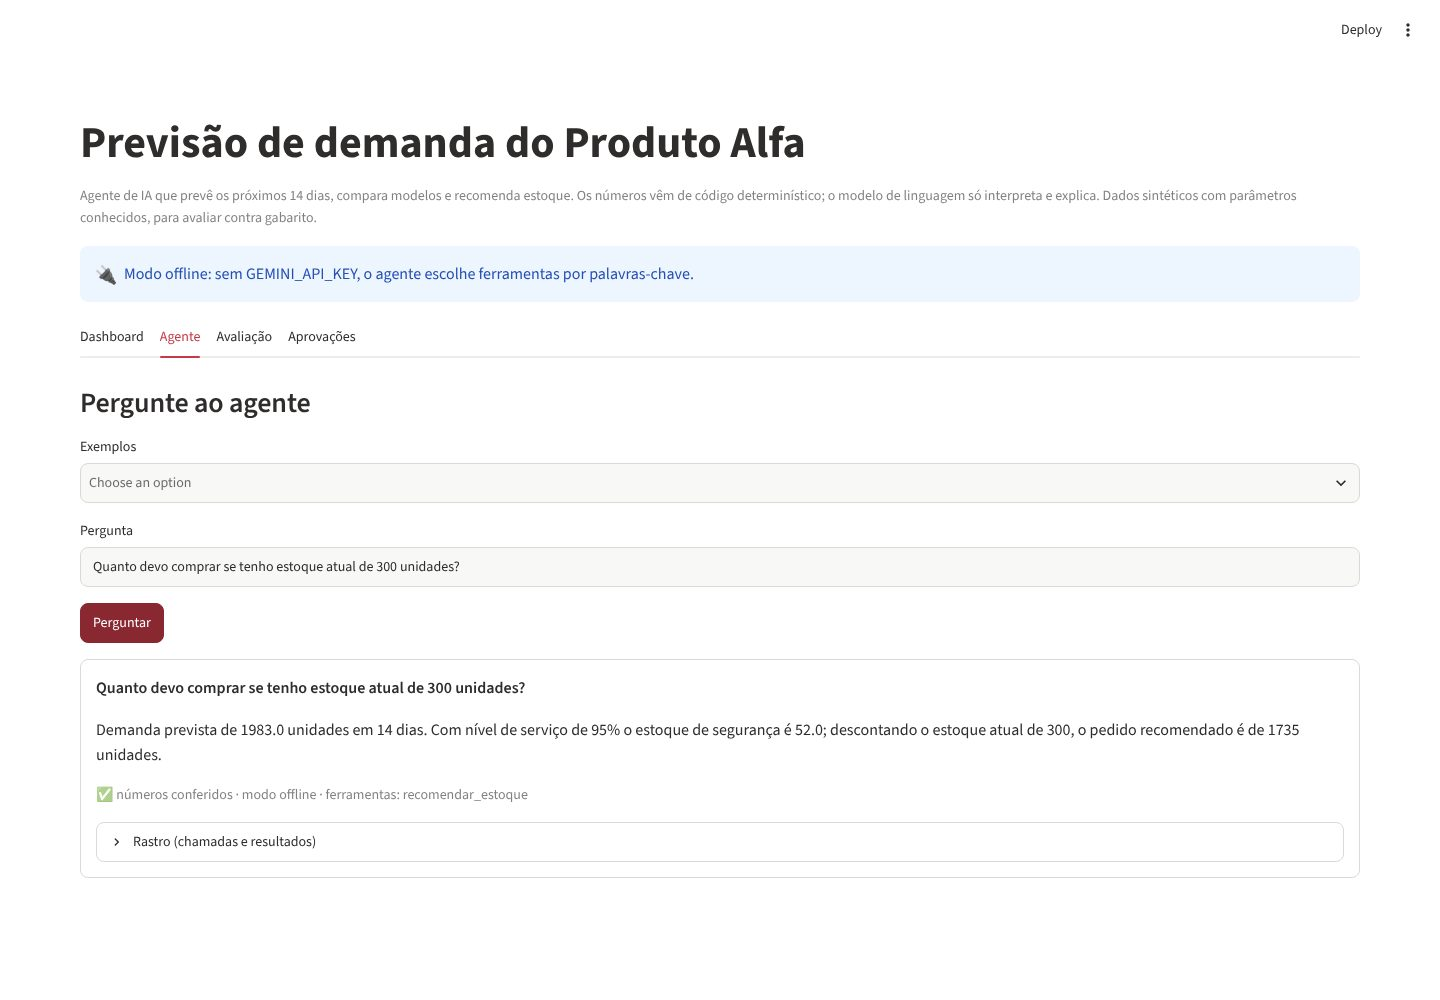
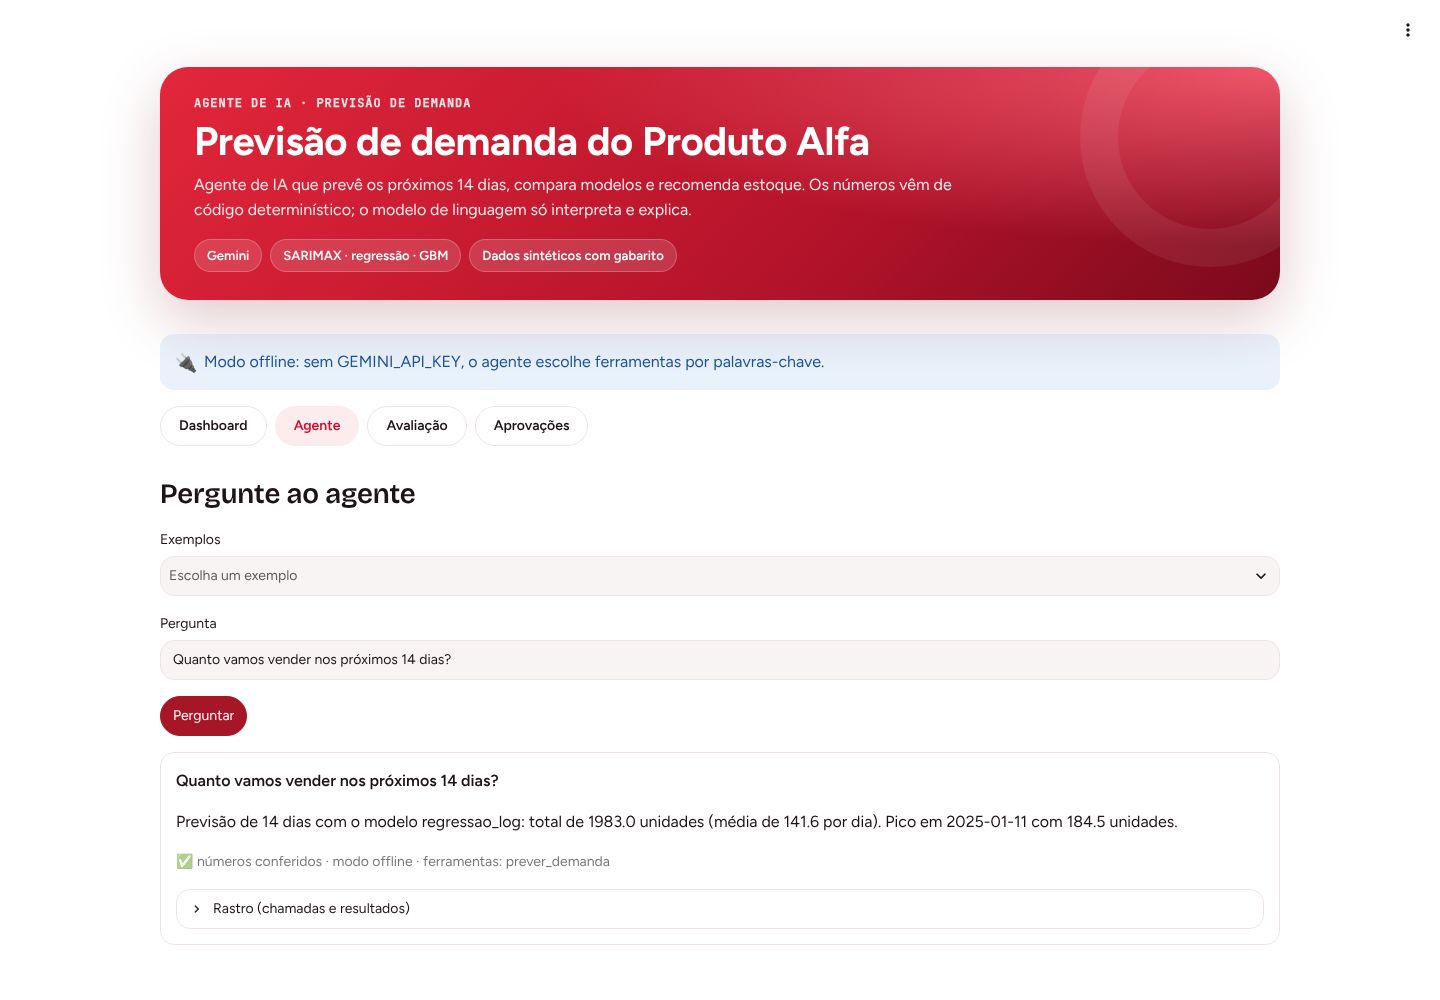
Dashboard com a identidade visual do portfólio
- .streamlit/config.toml: tema claro e escuro (vermelho #E3263B, Figtree e Bricolage Grotesque) e paletas de gráfico validadas para daltonismo
- app/tema.py: cabeçalho, cards de KPI, abas em pílula, selos de status com ícone e cores dos gráficos pela paleta
- capturas do README refeitas; streamlit>=1.51 (seções [theme.light] e [theme.dark])

Claude-Session: https://claude.ai/code/session_01WR8CaPDQRav6xXD6FyLt9e

diff --git a/app/tema.py b/app/tema.py
@@ -1,0 +1,142 @@
+"""Identidade visual compartilhada pelos dashboards: a mesma do portfólio (henriquecm02.github.io).
+
+Cores, fontes e raios ficam em `.streamlit/config.toml` (modo claro e escuro). Este módulo só acrescenta o que o tema
+do Streamlit não cobre: o cabeçalho, os cards de KPI, as abas em pílula e cores para traços com cor explícita.
+Copiado de forma idêntica em cada repositório, como o agentcore.py.
+"""
+from __future__ import annotations
+
+import html
+
+import streamlit as st
+
+# Mesma ordem das paletas do config.toml (validadas para daltonismo). Cor segue a entidade, nunca a posição.
+PALETA = {"claro": ["#E3263B", "#2a78d6", "#eda100", "#1baf7a", "#6250d6"],
+          "escuro": ["#E8455A", "#3987e5", "#c98500", "#199e70", "#9085e9"]}
+NEUTRO = {"claro": "#9A8A8D", "escuro": "#8C7E80"}  # série de referência: histórico, linha de base
+# Escala sequencial (magnitude): um só tom, do claro ao escuro (no modo escuro, do escuro ao claro).
+SEQUENCIAL = {"claro": ["#FDECEE", "#F6B3BC", "#EC6A7B", "#E3263B", "#B3132A", "#7A0A1B"],
+              "escuro": ["#3A1218", "#7A0A1B", "#B3132A", "#E3263B", "#EC6A7B", "#F6B3BC"]}
+STATUS = {"ok": ("#157347", "✅"), "atencao": ("#8A5200", "⚠"), "critico": ("#C8102E", "⛔")}
+
+
+def modo() -> str:
+    try:
+        return "escuro" if st.context.theme.type == "dark" else "claro"
+    except Exception:  # noqa: BLE001 - fora de uma sessão (testes, scripts) não há tema
+        return "claro"
+
+
+def cor(i: int) -> str:
+    """Cor categórica do slot i (0 = vermelho da marca)."""
+    return PALETA[modo()][i]
+
+
+def cores(n: int) -> list[str]:
+    """As n primeiras cores categóricas, na ordem fixa. Mais de 5 séries: agrupar em "Outros" ou separar."""
+    if n > len(PALETA["claro"]):
+        raise ValueError("Mais de 5 séries: agrupe em 'Outros' ou use pequenos múltiplos.")
+    return PALETA[modo()][:n]
+
+
+def sequencial() -> list[str]:
+    return SEQUENCIAL[modo()]
+
+
+def neutro() -> str:
+    return NEUTRO[modo()]
+
+
+def texto_secundario() -> str:
+    """Cor de rótulos de valor dentro de gráficos: texto, nunca a cor da série."""
+    return "#B9ACAE" if modo() == "escuro" else "#6B5C5F"
+
+
+def rgba(hex_: str, alpha: float) -> str:
+    h = hex_.lstrip("#")
+    return f"rgba({int(h[0:2], 16)},{int(h[2:4], 16)},{int(h[4:6], 16)},{alpha})"
+
+
+def selo(nivel: str, texto: str) -> str:
+    """Selo de status em HTML: sempre ícone + texto, nunca só a cor."""
+    c, icone = STATUS[nivel]
+    return (f'<span class="hc-selo" style="--c:{c}">{icone} {html.escape(texto)}</span>')
+
+
+_CSS = """
+<style>
+.block-container, [data-testid="stMainBlockContainer"] { padding-top: 4.2rem; max-width: 1280px; }
+[data-testid="stHeader"] { background: transparent; }
+h1, h2, h3 { letter-spacing: -0.01em; }
+.hc-hero { position: relative; overflow: hidden; border-radius: 28px; padding: 30px 34px 28px;
+  margin: 0 0 18px;
+  color: #fff; background: radial-gradient(120% 140% at 100% 0%, #F0566A 0%, rgba(240,86,106,0) 55%),
+  linear-gradient(135deg, #E3263B 0%, #B3132A 62%, #7A0A1B 100%);
+  box-shadow: 0 20px 60px rgba(122,10,27,.22); }
+.hc-hero::after { content: ""; position: absolute; right: -60px; top: -60px; width: 260px; height: 260px;
+  border-radius: 50%;
+  border: 38px solid rgba(255,255,255,.07); }
+.hc-hero .k { font: 700 12px/1 var(--hc-mono, "JetBrains Mono", monospace); letter-spacing: .08em;
+  text-transform: uppercase;
+  opacity: .85; margin-bottom: 10px; }
+.hc-hero h1 { color: #fff !important; font-size: clamp(1.7rem, 3.2vw, 2.5rem); line-height: 1.1;
+  margin: 0 0 10px; padding: 0; }
+.hc-hero p { color: rgba(255,255,255,.9); max-width: 780px; margin: 0; font-size: 1rem; line-height: 1.55; }
+.hc-hero .chips { display: flex; flex-wrap: wrap; gap: 8px; margin-top: 16px; }
+.hc-hero .chips span { background: rgba(255,255,255,.14); border: 1px solid rgba(255,255,255,.22);
+  border-radius: 999px;
+  padding: 5px 12px; font-size: .82rem; font-weight: 600; }
+[data-testid="stMetric"] { background: var(--hc-surface); border: 1px solid var(--hc-line);
+  border-radius: 20px;
+  padding: 16px 18px; min-height: 118px;
+  box-shadow: 0 1px 2px rgba(60,10,20,.05), 0 6px 18px rgba(60,10,20,.06); }
+[data-testid="stMetricLabel"] p { font-weight: 600; color: var(--hc-muted); }
+[data-testid="stMetricValue"] { font-weight: 700; letter-spacing: -0.02em; }
+[data-testid="stMetricDelta"] { max-width: 100%; border-radius: 10px !important; height: auto !important; }
+[data-testid="stMetricDelta"] p { white-space: normal !important; overflow: visible !important; }
+[role="tablist"] { gap: 8px; flex-wrap: wrap; border: 0 !important; box-shadow: none !important;
+  padding-bottom: 4px; }
+[role="tablist"]::after, [role="tablist"]::before { display: none !important; }
+[data-baseweb="tab-highlight"], [data-baseweb="tab-border"], .react-aria-SelectionIndicator { display: none
+  !important; }
+[role="tab"] { border-radius: 999px !important; padding: 8px 18px !important;
+  border: 1px solid var(--hc-line) !important;
+  background: var(--hc-surface) !important; height: auto !important;
+  transition: background .15s, border-color .15s; }
+[role="tab"]:hover { border-color: var(--hc-red) !important; }
+[role="tab"] p { font-weight: 600; margin: 0; }
+[role="tab"][aria-selected="true"] { background: var(--hc-soft) !important;
+  border-color: transparent !important; }
+[role="tab"][aria-selected="true"] p { color: var(--hc-red); }
+[data-testid="stVerticalBlockBorderWrapper"]:has(> div > [data-testid="stVerticalBlock"]) { border-radius:
+  20px; }
+[data-testid="stAlert"] { border-radius: 16px; }
+.hc-selo { display: inline-flex; align-items: center; gap: 6px; padding: 3px 10px; border-radius: 999px;
+  font-weight: 600;
+  font-size: .85rem; color: var(--c); background: color-mix(in srgb, var(--c) 12%, transparent); }
+.hc-nota { color: var(--hc-muted); font-size: .9rem; }
+</style>
+"""
+_TOKENS = {
+    "claro": "--hc-surface:#FFFFFF;--hc-line:#EEE4E5;--hc-muted:#6B5C5F;--hc-soft:#FDECEE;--hc-red:#C8102E;",
+    "escuro": "--hc-surface:#1F191A;--hc-line:#3A2F31;--hc-muted:#B9ACAE;--hc-soft:#3A1218;--hc-red:#F08E9B;",
+}
+
+
+def aplicar_tema(titulo: str, subtitulo: str, kicker: str = "", chips: list[str] | None = None) -> None:
+    """Injeta o CSS do portfólio e desenha o cabeçalho. Chamar logo depois de st.set_page_config."""
+    st.html(f"<style>:root{{{_TOKENS[modo()]}}}</style>" + _CSS)
+    chips_html = "".join(f"<span>{html.escape(c)}</span>" for c in chips or [])
+    st.html(f'<div class="hc-hero">{f"<div class=k>{html.escape(kicker)}</div>" if kicker else ""}'
+            f"<h1>{html.escape(titulo)}</h1><p>{html.escape(subtitulo)}</p>"
+            f'{f"<div class=chips>{chips_html}</div>" if chips_html else ""}</div>')
+
+
+def estilo_plotly(fig, altura: int | None = None, **layout):
+    """Acabamento comum dos gráficos Plotly: legenda no topo, hover unificado, margens enxutas."""
+    fig.update_layout(margin={"l": 8, "r": 8, "t": 36, "b": 8},
+                      legend={"orientation": "h", "yanchor": "bottom", "y": 1.02, "x": 0, "title_text": ""},
+                      hoverlabel={"font_family": "Figtree"}, **({"height": altura} if altura else {}), **layout)
+    fig.update_xaxes(showgrid=False)
+    fig.update_yaxes(zeroline=False)
+    return fig

diff --git a/app/streamlit_app.py b/app/streamlit_app.py
@@ -12,6 +12,7 @@ from pathlib import Path
 import pandas as pd
 import plotly.graph_objects as go
 import streamlit as st
+import tema
 
 ROOT = Path(__file__).resolve().parents[1]
 sys.path.insert(0, str(ROOT / "src"))
@@ -20,7 +21,6 @@ from forecastagent import data as D  # noqa: E402
 from forecastagent import models as M  # noqa: E402
 from forecastagent.tools import build_agent, t_drift  # noqa: E402
 
-RED, INK, GREY = "#E3263B", "#1E1416", "#9A8A8D"
 st.set_page_config(page_title="Previsão de demanda · Produto Alfa", page_icon="📈", layout="wide")
 
 
@@ -45,10 +45,12 @@ agent = get_agent()
 st.session_state.setdefault("pending", [])
 st.session_state.setdefault("log", [])
 
-st.title("Previsão de demanda do Produto Alfa")
-st.caption("Agente de IA que prevê os próximos 14 dias, compara modelos e recomenda estoque. "
-           "Os números vêm de código determinístico; o modelo de linguagem só interpreta e explica. "
-           "Dados sintéticos com parâmetros conhecidos, para avaliar contra gabarito.")
+tema.aplicar_tema(
+    "Previsão de demanda do Produto Alfa",
+    "Agente de IA que prevê os próximos 14 dias, compara modelos e recomenda estoque. Os números vêm de código "
+    "determinístico; o modelo de linguagem só interpreta e explica.",
+    kicker="Agente de IA · previsão de demanda",
+    chips=["Gemini", "SARIMAX · regressão · GBM", "Dados sintéticos com gabarito"])
 if agent.llm is None:
     st.info("Modo offline: sem GEMINI_API_KEY, o agente escolhe ferramentas por palavras-chave.", icon="🔌")
 
@@ -58,24 +60,25 @@ with tab_dash:
     c1, c2 = st.columns([3, 1])
     with c2:
         st.subheader("Cenário")
-        promo = st.multiselect("Dias com promoção (1 a 14)", list(range(1, 15)), default=[])
+        promo = st.multiselect("Dias com promoção (1 a 14)", list(range(1, 15)), default=[], placeholder="Escolha os dias")
         estoque = st.number_input("Estoque atual (unidades)", 0, 10000, 300, step=50)
         servico = st.slider("Nível de serviço", 0.80, 0.99, 0.95, 0.01)
     fc = M.forecast(14, promo)
     with c1:
         hist = df.tail(120)
         fig = go.Figure()
-        fig.add_trace(go.Scatter(x=hist["data"], y=hist["vendas"], name="Vendas reais", line=dict(color=GREY, width=1.5)))
+        fig.add_trace(go.Scatter(x=hist["data"], y=hist["vendas"], name="Vendas reais", line=dict(color=tema.neutro(), width=1.5)))
         fig.add_trace(go.Scatter(x=list(fc["data"]) + list(fc["data"][::-1]), y=list(fc["p90"]) + list(fc["p10"][::-1]),
-                                 fill="toself", fillcolor="rgba(227,38,59,0.15)", line=dict(width=0), name="Intervalo p10–p90"))
+                                 fill="toself", fillcolor=tema.rgba(tema.cor(0), 0.16), line=dict(width=0),
+                                 name="Intervalo p10–p90", hoverinfo="skip"))
         fig.add_trace(go.Scatter(x=fc["data"], y=fc["previsao"], name=f"Previsão ({fc['modelo'].iloc[0]})",
-                                 line=dict(color=RED, width=2.5)))
+                                 line=dict(color=tema.cor(0), width=2.5), mode="lines+markers", marker=dict(size=8)))
         promo_days = fc[fc["em_promocao"] == 1]
         if len(promo_days):
             fig.add_trace(go.Scatter(x=promo_days["data"], y=promo_days["previsao"], mode="markers", name="Promoção",
-                                     marker=dict(color=INK, size=9, symbol="star")))
-        fig.update_layout(height=420, margin=dict(l=10, r=10, t=30, b=10), legend=dict(orientation="h", y=-0.15),
-                          yaxis_title="unidades/dia")
+                                     marker=dict(color=tema.cor(1), size=13, symbol="star",
+                                                 line=dict(width=1.5, color="white"))))
+        tema.estilo_plotly(fig, 420, yaxis_title="unidades/dia", hovermode="x unified")
         st.plotly_chart(fig, use_container_width=True)
 
     from forecastagent.tools import t_estoque
@@ -101,8 +104,10 @@ with tab_dash:
         fat = pd.DataFrame({"Fator": ["Promoção", "Feriado nacional", "Tendência (ao ano)"],
                             "Efeito (%)": [drv["efeito_promocao_pct"], drv["efeito_feriado_pct"], drv["tendencia_pct_ano"]]})
         fig2 = go.Figure(go.Bar(x=fat["Efeito (%)"], y=fat["Fator"], orientation="h",
-                                marker_color=[RED if v > 0 else GREY for v in fat["Efeito (%)"]]))
-        fig2.update_layout(height=240, margin=dict(l=10, r=10, t=10, b=10), xaxis_title="%")
+                                marker_color=[tema.cor(0) if v > 0 else tema.cor(1) for v in fat["Efeito (%)"]],
+                                text=[f"{v:+.1f}%" for v in fat["Efeito (%)"]], textposition="outside", cliponaxis=False,
+                                hovertemplate="%{y}: %{x:+.1f}%<extra></extra>"))
+        tema.estilo_plotly(fig2, 240, xaxis_title="efeito (%)", showlegend=False)
         st.plotly_chart(fig2, use_container_width=True)
 
 with tab_agent:
@@ -110,7 +115,7 @@ with tab_agent:
     exemplos = ["Quanto vamos vender nos próximos 14 dias?", "Qual o efeito da promoção nas vendas?",
                 "Quanto devo comprar se tenho estoque atual de 300 unidades?", "Compare os modelos.",
                 "Publique a previsão para o time de compras."]
-    ex = st.selectbox("Exemplos", [""] + exemplos)
+    ex = st.selectbox("Exemplos", [""] + exemplos, placeholder="Escolha um exemplo")
     q = st.text_input("Pergunta", value=ex)
     if st.button("Perguntar", type="primary") and q.strip():
         with st.spinner("Consultando ferramentas…"):

diff --git a/tests/test_app.py b/tests/test_app.py
@@ -1,0 +1,12 @@
+"""O dashboard sobe sem erro (Streamlit AppTest, sem rede)."""
+from pathlib import Path
+
+from streamlit.testing.v1 import AppTest
+
+APP = Path(__file__).resolve().parents[1] / "app" / "streamlit_app.py"
+
+
+def test_dashboard_renderiza_sem_erro():
+    at = AppTest.from_file(str(APP), default_timeout=180).run()
+    assert not at.exception, at.exception
+    assert len(at.metric) >= 4
